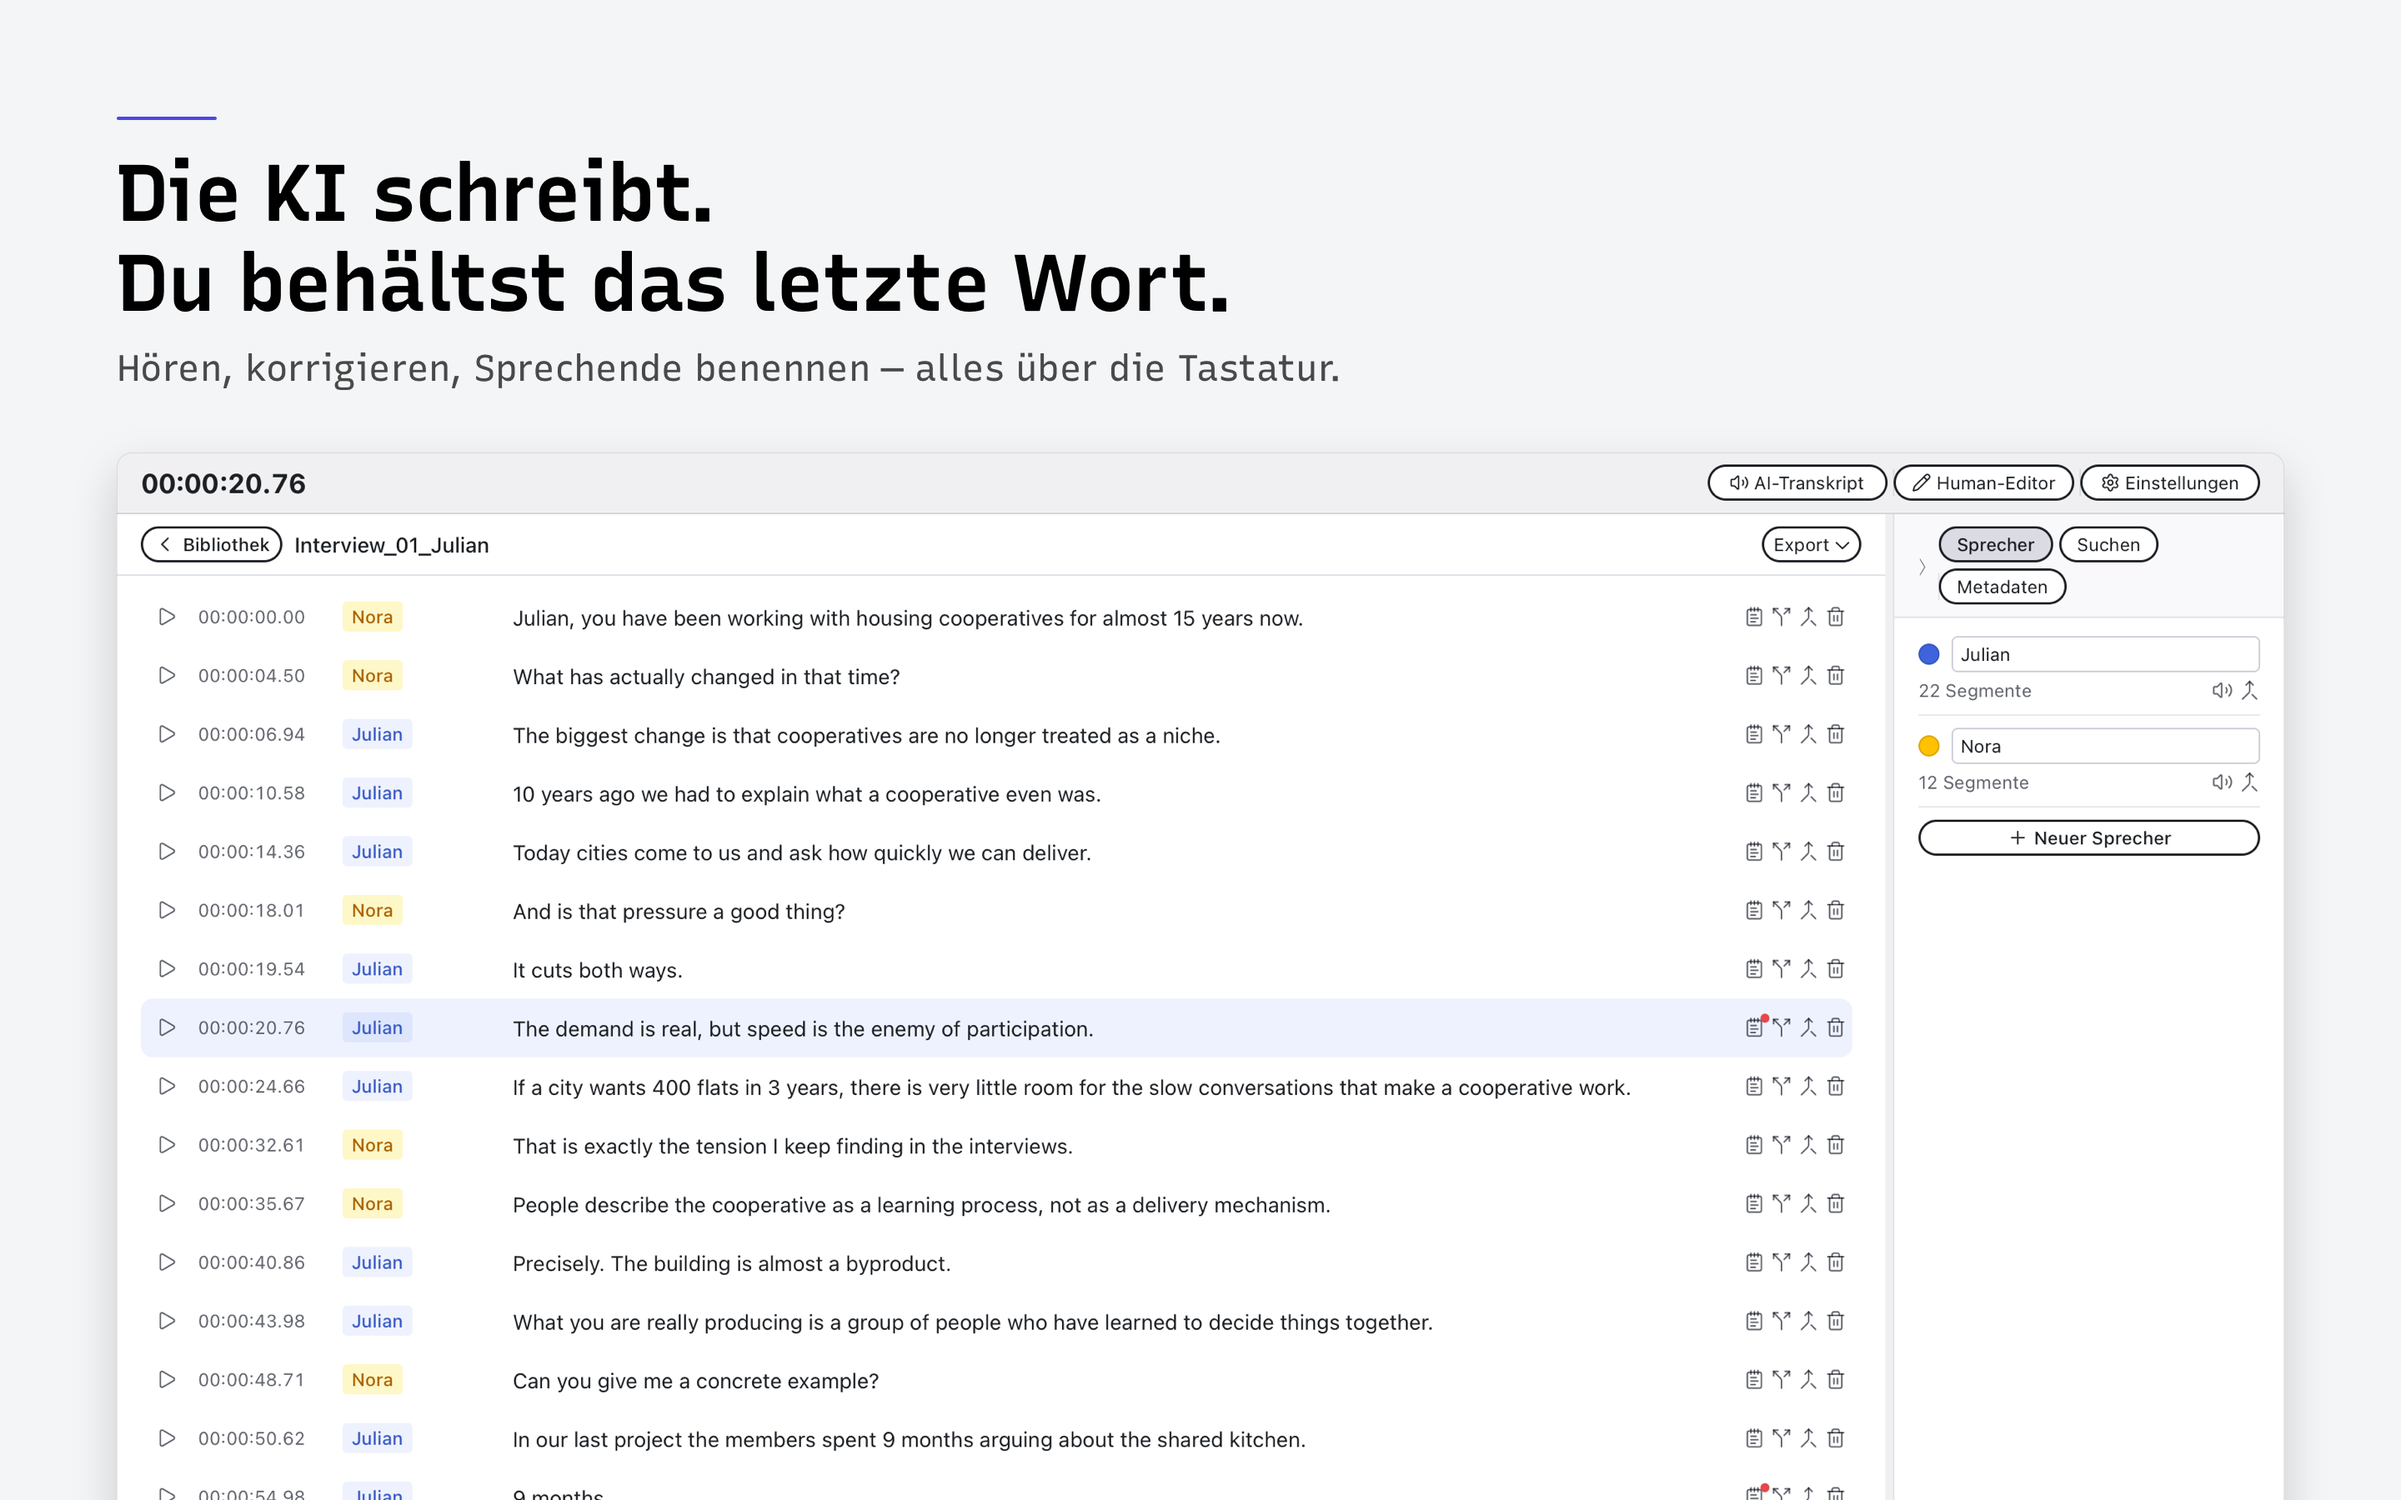
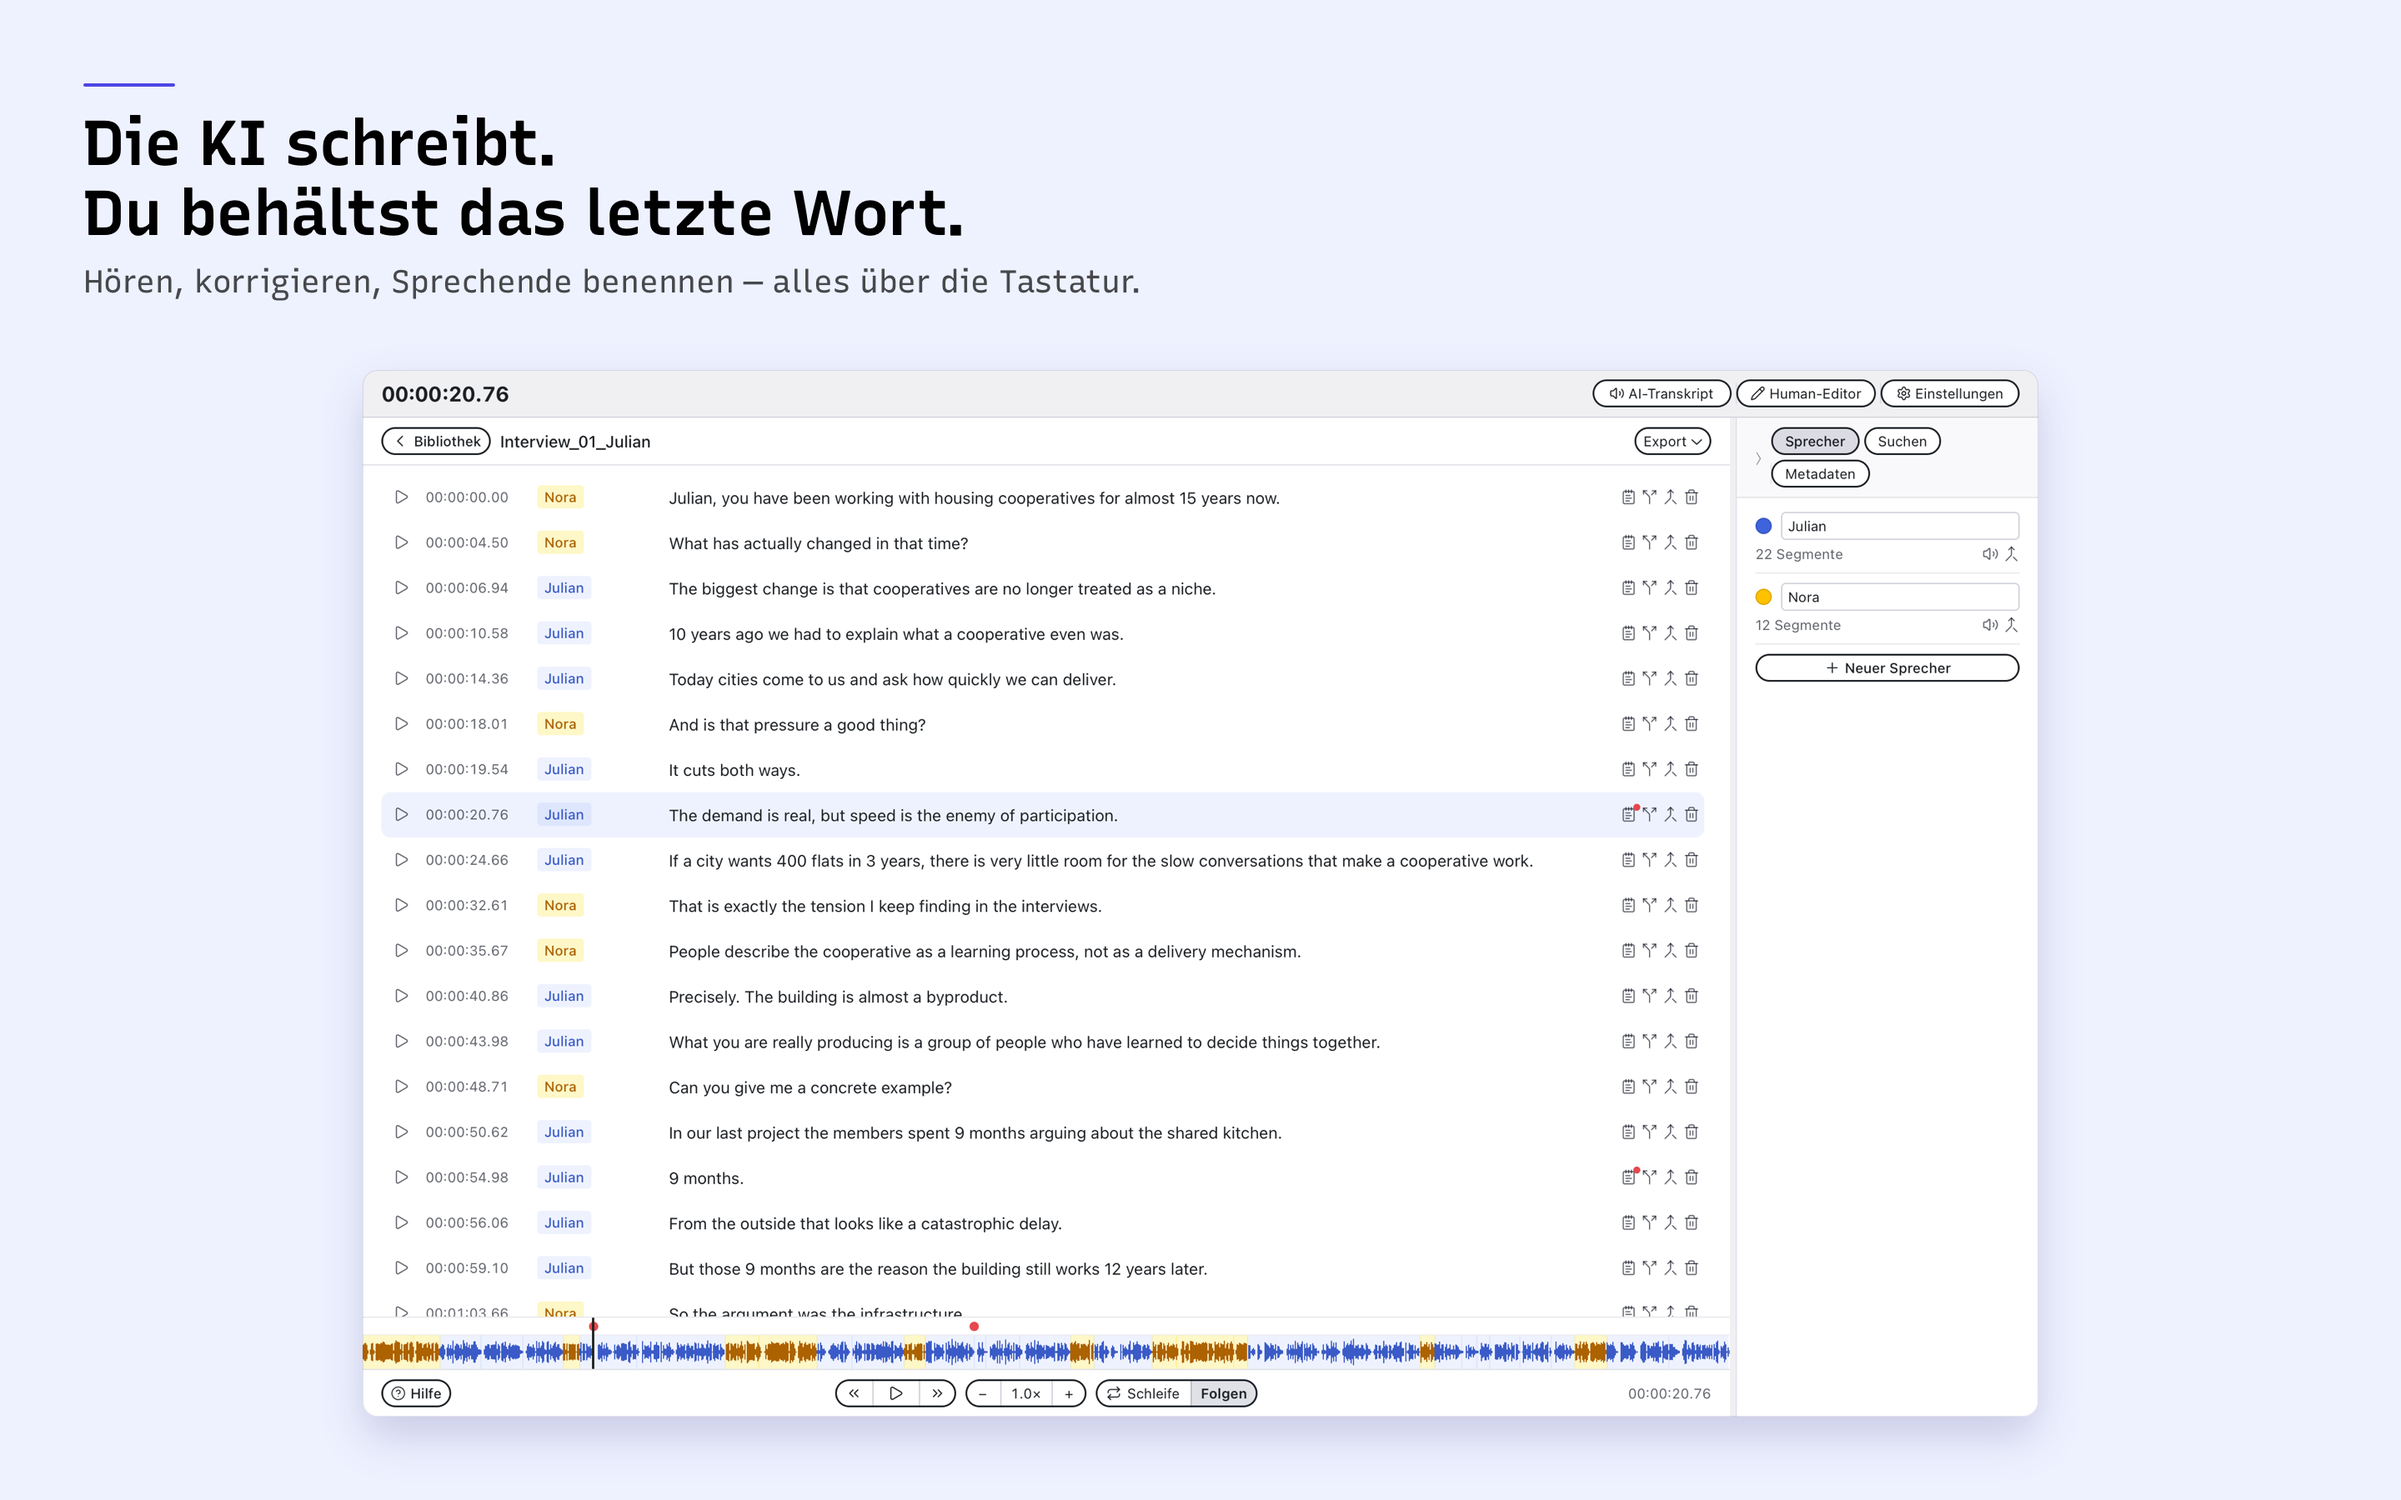
Store-Bilder: Fenster ganz sichtbar, Markenton als Grund, zwei Motive mehr
Nach Durchsicht des ersten Entwurfs:

- Das Fenster wurde unten angeschnitten — und im Editor sitzt dort die
  Wellenform. Jetzt ist der Kopf knapp (76 px Schlagzeile) und das Fenster
  wird mittig in die Restflaeche eingepasst, vollstaendig.
- Der Grund war das neutrale Grau der Website und lag damit auf demselben Ton
  wie die Fensterleiste von macOS; das Fenster verschwand darin. Jetzt der
  helle Markenton (--lila-050), der klar trennt und auch dunkle Fenster traegt.
- Es fehlte das Motiv, das die Kernaussage traegt: eine Zeile offen im Text,
  Einfuegepunkt sichtbar. Dazu die Einstellungen mit Datenschutz und Lizenzen,
  die zweite Kernbotschaft. Beide muessen aus der App aufgenommen werden.
- Neun Motive in neuer Reihenfolge: erst was es ist, dann das Versprechen,
  dann der Quellenschutz.
- bildtexte.json ist jetzt die einzige Textquelle (das Skript liest sie),
  bildtexte.md nur noch Haltung, Gestaltung und Aufnahmeanleitung. Die beiden
  Dateien waren nach einer Runde schon auseinandergelaufen.

Claude-Session: https://claude.ai/code/session_01VhoDoDyamQwRzZ3dqypMTk

diff --git a/appstore/texte/bildtexte.md b/appstore/texte/bildtexte.md
@@ -1,123 +1,89 @@
-# Store-Bilder: Gestaltung und Texte
+# Store-Bilder: Haltung, Gestaltung, Aufnahme
 
-Vorschlag vom 22.9.2026, gezogen aus den Website-Texten (`site/index.html`) und der
+Stand 22.9.2026. Gezogen aus den Website-Texten (`site/index.html`) und der
 Store-Beschreibung. Zielgruppe: qualitative Forschung, Auswertung mit QDA-Software.
+
+> **Die Beschriftungen stehen in `bildtexte.json`, nicht hier.** Dort liest sie das
+> Montageskript, in allen vier Sprachen. Hier steht nur, warum sie so aussehen und
+> was auf den Aufnahmen zu sehen sein soll. Zwei Dateien mit denselben Texten laufen
+> sonst auseinander.
 
 ## Haltung
 
 Die App ist Werkzeug, nicht Unterhaltung. Die Bilder sollen wie eine Methodenseite
 wirken, nicht wie eine Anzeige: ruhiger Grund, eine Aussage je Bild, das Fenster gross
-genug, dass man die Oberfläche wirklich liest. Keine Pfeile, keine Sticker, keine
-Gerätemontagen, keine Verläufe.
+und **ganz** sichtbar. Keine Pfeile, keine Sticker, keine Gerätemontagen.
 
-Drei Botschaften tragen alles, in dieser Reihenfolge:
+Drei Botschaften tragen die Reihenfolge:
 
 1. **Der Mensch entscheidet.** Die KI liefert den Rohtext, geprüft wird von Hand.
 2. **Es bleibt auf dem Rechner.** Quellenschutz ist bei Interviews kein Zusatz.
 3. **Es endet zitierfähig.** REFI-QDA, Dokumentationspaket, Korrekturrate.
 
-## Aufbau je Bild (2880 × 1800, 16:10)
+## Gestaltung (2880 × 1800, 16:10)
 
 | Element | Wert |
 |---|---|
-| Grund, helle Motive | `#f3f5f6` (Website `--wash`) |
-| Grund, dunkles Motiv | `#1a1d20` (Website `--dunkel`), Schrift weiss |
-| Aussenrand | 140 px |
-| Schlagzeile | Recursive, 96 px, Gewicht 640, Zeilenabstand 1.12, Farbe `#000` bzw. `#fff` |
-| Unterzeile | Recursive, 44 px, Gewicht 400, Farbe `#000` bei 70 % Deckung |
-| Abstand Schlagzeile → Unterzeile | 20 px |
-| Abstand Text → Fenster | 72 px |
-| Fenster | volle Restbreite, Radius 18 px, Schatten `0 24px 60px rgba(0,0,0,.18)` |
-| Akzent | `#4f46e5` (Website `--lila-600`), nur für ein einzelnes Wort oder eine 4-px-Linie über der Schlagzeile |
+| Grund, alle Motive | `#eef2ff` (Website `--lila-050`) |
+| Aussenrand | 100 px |
+| Akzentlinie über der Schlagzeile | 110 × 4 px, `#4f46e5` (Website `--lila-600`) |
+| Schlagzeile | Recursive, 76 px, Gewicht 640, Zeilenabstand 1.1 |
+| Unterzeile | Recursive, 38 px, Gewicht 400, Schwarz bei 70 % Deckung |
+| Kopfhöhe | 300 px, danach 44 px Luft |
+| Fenster | ganz sichtbar, mittig in der Restfläche, Radius 18 px, weicher Schatten in Indigo |
 
-Schrift ist **Recursive** aus `site/fonts/Recursive_VF.woff2` (SIL OFL 1.1, Nennung in
-`OFL.txt`) — dieselbe wie auf der Website, mit `CASL 0` und `MONO 0`.
+Schrift ist **Recursive** aus `site/fonts/Recursive_VF.woff2` (SIL OFL 1.1, Lizenztext
+in `OFL.txt`), dieselbe wie auf der Website, mit `CASL 0` und `MONO 0`.
 
-Die Aufnahmen kommen aus der **gebauten Store-App**, nicht aus dem Browser: Umschalt-
-Befehl-Vier, dann Leertaste auf das Fenster. Nur so zeigen die Bilder die eingereichte
-Fassung (im Browser rendert die Oberfläche den Zweig für den Direktvertrieb).
+Zwei Entscheide, die aus dem ersten Entwurf stammen:
 
-## Reihenfolge und Texte
+- **Das Fenster wird nicht angeschnitten.** Im Editor sitzt die Wellenform am unteren
+  Rand — genau die wäre sonst weg. Deshalb ist der Kopf knapp gehalten und das Bild
+  wird in die Restfläche eingepasst.
+- **Der Grund ist der Markenton, nicht das neutrale Grau der Website.** `--wash` lag zu
+  nah an der Fensterleiste von macOS, das Fenster verschwand im Hintergrund.
 
-Die ersten drei Bilder sieht man im Store ohne Blättern.
+## Motive, in dieser Reihenfolge
 
-### 1 · Editor (hell) — `01-editor`
+Die ersten drei sieht man im Store ohne Blättern.
 
-| | |
-|---|---|
-| de | **Die KI schreibt. Du behältst das letzte Wort.**<br>Hören, korrigieren, Sprechende benennen — alles über die Tastatur. |
-| en | **The AI writes. You have the last word.**<br>Listen, correct, name speakers — all from the keyboard. |
-| fr | **L'IA écrit. Le dernier mot te revient.**<br>Écouter, corriger, nommer les locuteurs — au clavier. |
-| it | **L'IA scrive. L'ultima parola è tua.**<br>Ascoltare, correggere, dare un nome a chi parla — da tastiera. |
+| # | Rohaufnahme | Was zu sehen sein soll |
+|---|---|---|
+| 1 | `01-editor.png` | Editor mit Transkript, zwei Sprechenden, Wellenform unten |
+| 2 | `01b-bearbeiten.png` | **neu** — eine Zeile offen im Text, Einfügepunkt sichtbar |
+| 3 | `08-einstellungen.png` | **neu** — Einstellungen, Karte Datenschutz und Lizenzen |
+| 4 | `02-ai-transkript.png` | Warteliste mit mehreren Dateien und Sprecherzahl |
+| 5 | `03-export.png` | offenes Export-Menü mit allen Formaten |
+| 6 | `04-suchen-ersetzen.png` | Suchen und Ersetzen mit Treffern |
+| 7 | `05-sprecherfarbe.png` | Sprechende benennen und färben |
+| 8 | `07-editor-dunkel.png` | derselbe Editor im dunklen Erscheinungsbild |
+| 9 | `06-bibliothek.png` | Bibliothek mit mehreren Transkripten |
 
-### 2 · Warteliste (hell) — `02-ai-transkript`
+## Aufnahme
 
-| | |
-|---|---|
-| de | **Interviews hinein, Transkripte heraus.**<br>Mit Sprechertrennung. Mehrere Aufnahmen nacheinander, ohne Aufsicht. |
-| en | **Interviews in, transcripts out.**<br>With speaker separation. Several recordings in a row, unattended. |
-| fr | **Des entretiens en entrée, des transcriptions en sortie.**<br>Avec séparation des locuteurs. Plusieurs enregistrements à la suite. |
-| it | **Interviste dentro, trascrizioni fuori.**<br>Con separazione dei parlanti. Più registrazioni di seguito. |
+Die Rohaufnahmen kommen aus der **gebauten Store-App** (TestFlight), nicht aus dem
+Browser: Umschalt-Befehl-Vier, dann Leertaste, dann auf das Fenster klicken. Ablegen
+unter `appstore/upload/<sprache>/` mit genau den Dateinamen aus der Tabelle.
 
-### 3 · Export (hell) — `03-export`
+Warum nicht aus dem Browser: Dort ist `isTauri()` falsch und der Vertriebskanal «dmg».
+Die Einstellungsseite zeigt dann einen Knopf «Releases», der aus dem Store heraus auf
+Downloads ausserhalb des Stores verweist, und es fehlen Bedienelemente, die es nur in
+der App gibt. Genau daran wäre die alte Fassung gescheitert.
 
-| | |
-|---|---|
-| de | **Zitierfähig, ohne Nacharbeit.**<br>REFI-QDA für die Analyse, Word für den Text, Dokumentationspaket für den Methodenteil. |
-| en | **Citable, with no extra work.**<br>REFI-QDA for analysis, Word for the text, a documentation package for your methods section. |
-| fr | **Citable, sans retouches.**<br>REFI-QDA pour l'analyse, Word pour le texte, un dossier de documentation pour la partie méthodes. |
-| it | **Citabile, senza rilavorazione.**<br>REFI-QDA per l'analisi, Word per il testo, un pacchetto di documentazione per la sezione metodi. |
+Danach montieren:
 
-### 4 · Datenschutz (dunkel) — neu aufnehmen: Einstellungen, unterer Teil
+```
+node scripts/appstore-montage.mjs              # alle vier Sprachen
+node scripts/appstore-montage.mjs --sprachen de
+```
 
-| | |
-|---|---|
-| de | **Nichts verlässt deinen Mac.**<br>Kein Konto, keine Cloud, keine Telemetrie. Alle Modelle sind enthalten. |
-| en | **Nothing leaves your Mac.**<br>No account, no cloud, no telemetry. All models are included. |
-| fr | **Rien ne quitte ton Mac.**<br>Pas de compte, pas de cloud, pas de télémétrie. Tous les modèles sont inclus. |
-| it | **Nulla lascia il tuo Mac.**<br>Nessun account, nessun cloud, nessuna telemetria. Tutti i modelli sono inclusi. |
-
-### 5 · Suchen und Ersetzen (hell) — `04-suchen-ersetzen`
-
-| | |
-|---|---|
-| de | **Pseudonyme in einem Zug.**<br>Suchen und Ersetzen über das ganze Transkript, mit Vorschau je Fund. |
-| en | **Pseudonyms in one pass.**<br>Search and replace across the whole transcript, with a preview for each hit. |
-| fr | **Les pseudonymes d'un seul geste.**<br>Rechercher et remplacer dans toute la transcription, avec aperçu. |
-| it | **Pseudonimi in un colpo solo.**<br>Cerca e sostituisci in tutta la trascrizione, con anteprima. |
-
-### 6 · Sprechende (hell) — `05-sprecherfarbe`
-
-| | |
-|---|---|
-| de | **Sprechende benennen, färben, zusammenführen.**<br>Hörprobe je Stimme, bevor du dich entscheidest. |
-| en | **Name, colour and merge your speakers.**<br>Listen to each voice before you decide. |
-| fr | **Nommer, colorer, fusionner les locuteurs.**<br>Écouter chaque voix avant de décider. |
-| it | **Nomina, colora e unisci chi parla.**<br>Ascolta ogni voce prima di decidere. |
-
-### 7 · Editor dunkel — `07-editor-dunkel`
-
-| | |
-|---|---|
-| de | **Timecodes auf die Hundertstelsekunde.**<br>Wellenform in den Farben der Sprechenden, zoombar bis in die Silbe. |
-| en | **Timecodes to the hundredth of a second.**<br>Waveform in the speakers' colours, zoomable down to the syllable. |
-| fr | **Des timecodes au centième de seconde.**<br>Forme d'onde aux couleurs des locuteurs, zoomable jusqu'à la syllabe. |
-| it | **Timecode al centesimo di secondo.**<br>Forma d'onda nei colori di chi parla, con zoom fino alla sillaba. |
-
-### 8 (wenn Platz) · Bibliothek (hell) — `06-bibliothek`
-
-| | |
-|---|---|
-| de | **Alles in dem Ordner, den du wählst.**<br>Je Transkript ein Ordner mit Audio, Text und Verlauf. |
-| en | **Everything in the folder you choose.**<br>One folder per transcript, with audio, text and history. |
-| fr | **Tout dans le dossier que tu choisis.**<br>Un dossier par transcription, avec audio, texte et historique. |
-| it | **Tutto nella cartella che scegli.**<br>Una cartella per trascrizione, con audio, testo e cronologia. |
+Ergebnis: `appstore/store/<sprache>/NN-motiv.png`, fertig zum Hochladen.
 
 ## Was die Richtlinie dazu sagt
 
 > 2.3.3 Screenshots should show the app in use … They may also include text and image
 > overlays.
 
-Beschriftung und Grund sind also zulässig. Die Grenze liegt beim Inhalt des Fensters:
-Es muss die eingereichte Fassung zeigen, in Benutzung, ohne Funktionen, die es nicht
-gibt. Deshalb die Aufnahme aus der Store-App und nicht aus dem Browser.
+Beschriftung und Grund sind also ausdrücklich zulässig. Die Grenze liegt beim Inhalt
+des Fensters: Es muss die eingereichte Fassung zeigen, in Benutzung, ohne Funktionen,
+die es nicht gibt.
